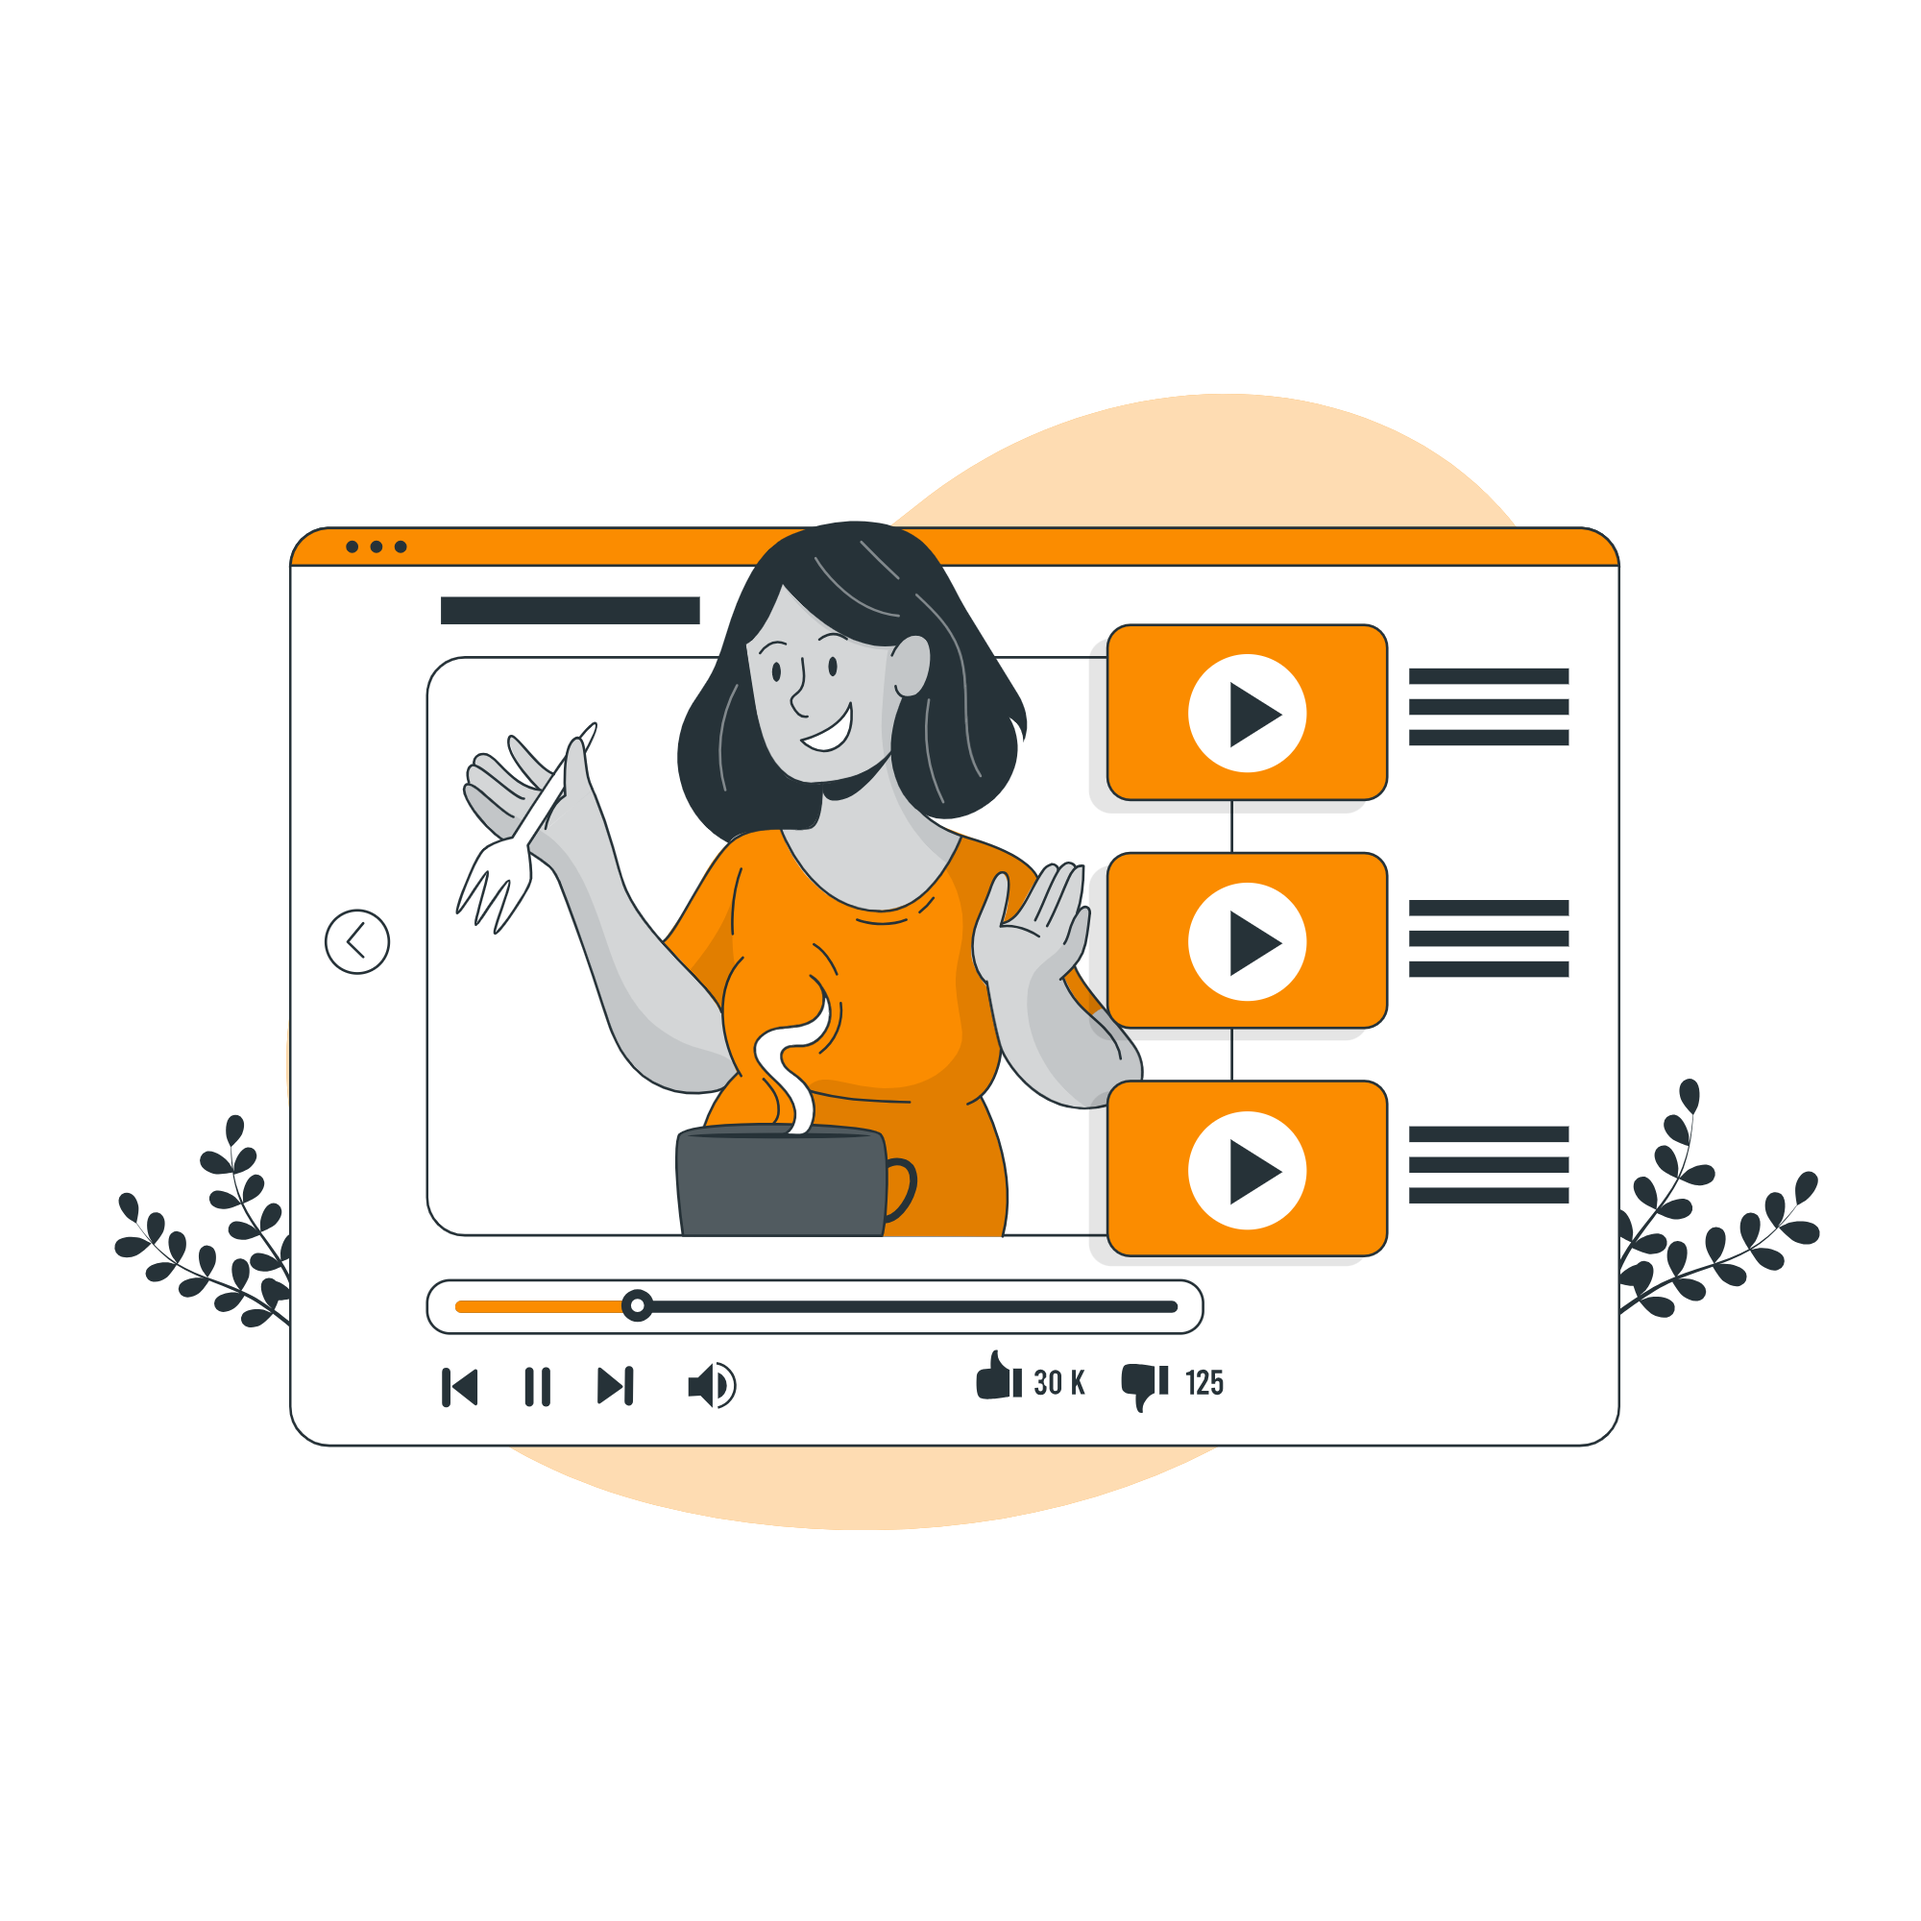
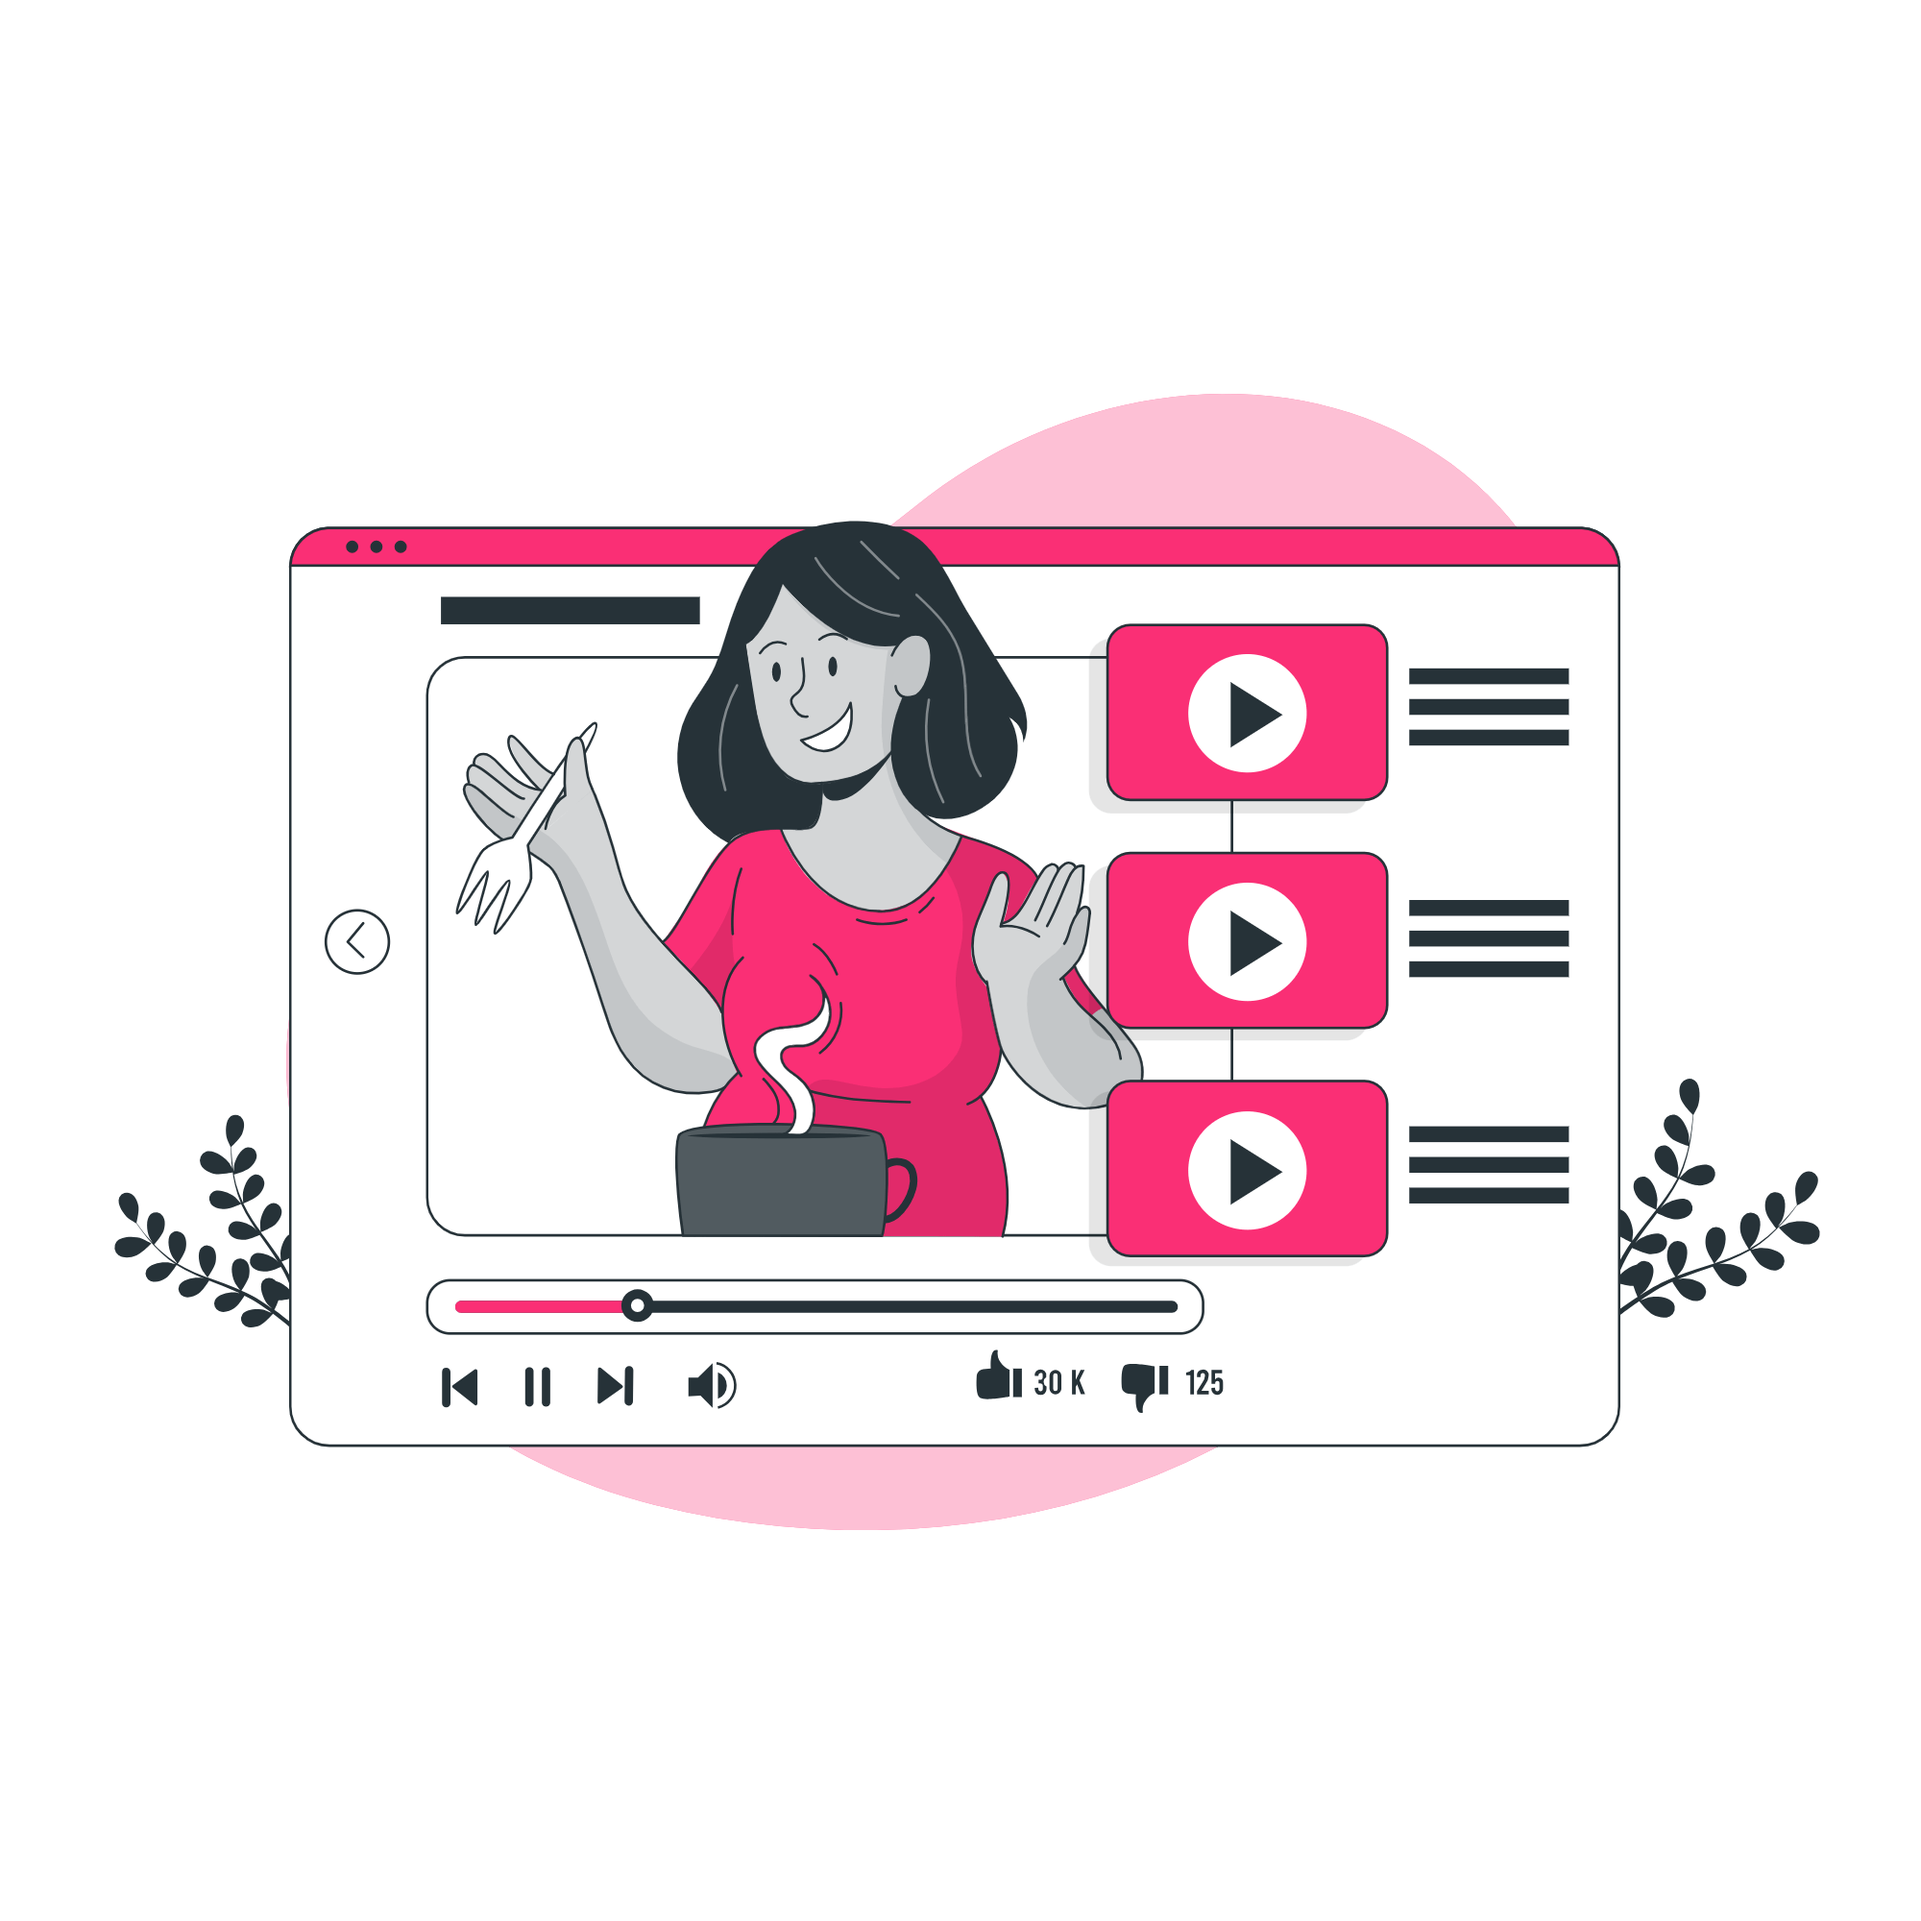
change color

diff --git a/css/main.css b/css/main.css
@@ -6,7 +6,7 @@
 
 :root {
     --main-transition: 0.5s;
-    --main-color: #ff8900;
+    --main-color: #e91e63;
     --primary-color: #fff;
     --secondary-color: #212529;
 }
@@ -32,6 +32,24 @@ ul {
 
 a {
     text-decoration: none;
+}
+
+::-webkit-scrollbar {
+    width: 10px;
+}
+
+::-webkit-scrollbar-track {
+    background-color: rgb(237, 237, 237);
+    box-shadow: inset 0.5px 0px 3px 1px #cccccc;
+}
+
+::-webkit-scrollbar-thumb {
+    background-color: var(--main-color);
+    border-radius: 10px;
+    -webkit-border-radius: 10px;
+    -moz-border-radius: 10px;
+    -ms-border-radius: 10px;
+    -o-border-radius: 10px;
 }
 
 .container {
